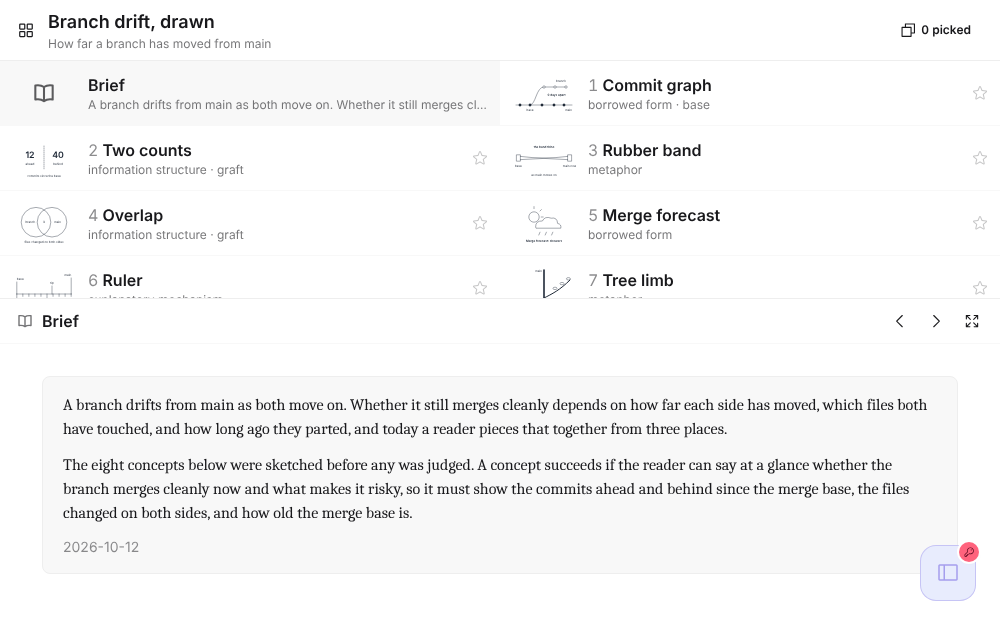
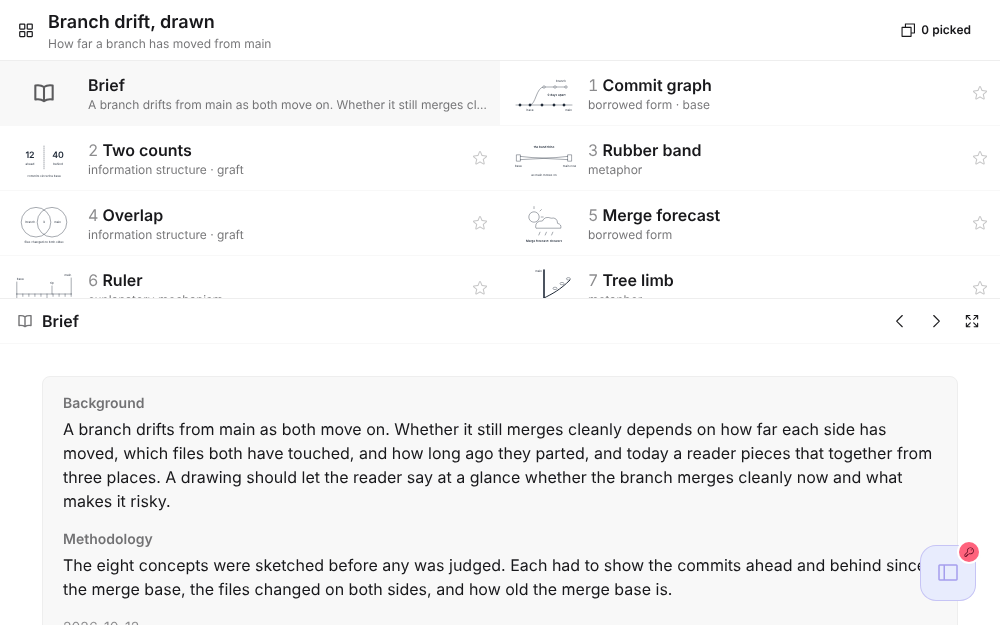
Idea board: the brief is a Background and a Methodology paragraph
The brief is two labelled paragraphs, brief.background and
brief.methodology, on the tinted panel; the serif face is gone. A brief of
result and musts[] stays one unlabelled paragraph. The demo board's brief
moves to the two fields.

Claude-Session: https://claude.ai/code/session_01Ug8CX7fEZku96bGVnsboE4

Changed region(s): [[0.062, 0.6384, 0.93, 0.9728]]

diff --git a/pages/idea-board.html b/pages/idea-board.html
@@ -134,14 +134,17 @@ document.addEventListener('alpine:init', () => {
     // (docs/prototypes/md-edit-ideas.json, a write-once record) is read with
     // the two joined as its commentary.
     commentary(d) { return d.commentary != null ? d.commentary : [d.encounter, d.helps].filter(Boolean).join('\n\n'); },
-    // A board whose brief is result and musts[] (docs/prototypes/md-edit-ideas.json
-    // again) has the two read as prose: the result, then what a concept must show.
-    get briefText() {
-      const b = this.B.brief;
-      return typeof b === 'string' ? b : [b.result, (b.musts || []).length ? 'A concept must show ' + b.musts.map(m => /^.[a-z]/.test(m) ? m.charAt(0).toLowerCase() + m.slice(1) : m).join('; ') + '.' : ''].filter(Boolean).join('\n\n');
+    // [label, text] pairs: the brief's Background and Methodology. A brief of
+    // result and musts[] (docs/prototypes/md-edit-ideas.json again) is one
+    // unlabelled paragraph: the result, then what a concept must show.
+    get briefParts() {
+      const b = this.B.brief || {};
+      if (b.background || b.methodology) return [['Background', b.background], ['Methodology', b.methodology]].filter(([, t]) => t);
+      const musts = (b.musts || []).map(m => /^.[a-z]/.test(m) ? m.charAt(0).toLowerCase() + m.slice(1) : m);
+      return [[null, [b.result, musts.length ? 'A concept must show ' + musts.join('; ') + '.' : ''].filter(Boolean).join(' ')]];
     },
     // The brief's list row: its first paragraph, unformatted.
-    get briefLead() { return this.briefText.split(/\n\s*\n/)[0].replace(/\*\*|`/g, ''); },
+    get briefLead() { return (this.briefParts[0]?.[1] || '').replace(/\*\*|`/g, ''); },
     mark(kind, size = 16) { return window.CallMarks ? window.CallMarks.svg(kind, { size }) : ''; },
 
     // The deck's subtitle names the card in view, as the strip's header does.
@@ -214,13 +217,13 @@ document.addEventListener('alpine:init', () => {
       this.note(el, d.n);
     },
 
-    // The brief is prose, formatted as a commentary is, with its date beneath.
-    // It sits on a tinted, bordered panel in a serif face, so it reads as the
-    // board's own document and not as a ninth idea; the idea cards stay on the
-    // plain ground in the page's sans.
+    // The brief is its Background and its Methodology, a paragraph each under
+    // its label, on a tinted panel so it is not taken for a ninth idea, with the
+    // board's date beneath.
     renderBrief(el) {
-      el.innerHTML = `<div class="rounded-box border border-base-300 bg-base-200 px-5 py-4 grid gap-3 text-pretty font-serif">${prose(this.briefText)}
-        <p class="text-sm text-base-content/50 font-sans">${esc(this.B.made)}</p>
+      el.innerHTML = `<div class="rounded-box border border-base-300 bg-base-200 px-5 py-4 grid gap-4 text-pretty">
+        ${this.briefParts.map(([label, text]) => `<section class="grid gap-1">${label ? `<h3 class="text-sm font-semibold text-base-content/60">${label}</h3>` : ''}<div class="grid gap-3">${prose(text)}</div></section>`).join('')}
+        <p class="text-sm text-base-content/50">${esc(this.B.made)}</p>
       </div>`;
     },
 

diff --git a/docs/idea-board.md b/docs/idea-board.md
@@ -22,7 +22,7 @@ the board that was handed over.
 | Field | Holds |
 | --- | --- |
 | `title`, `subject`, `made` | the board's name, what it is about, and the date |
-| `brief` | prose from phase 1: the background, how the concepts were made, the intended result and what a concept must show, with the formatting [Cards](#cards) describes |
+| `brief.background`, `brief.methodology` | a paragraph each, from phase 1: the situation that gives rise to the board and what a reader should be able to do after it, then how the concepts were made and what each must show, with the formatting [Cards](#cards) describes |
 | `ideas[]` | eight concepts: `n`, `title`, `kind` (its principal difference), `commentary`, `sketch` |
 | `selection.pick[]` | the base concept's `n` |
 | `selection.grafts[]` | `[n, what is taken from it]` pairs |
@@ -46,7 +46,7 @@ the board that was handed over.
 
 A board has four parts: the brief gives its background and method, each idea has a proposal (its `title`, `kind` and `sketch`) and a commentary (its `commentary`), and the selection is its conclusion. [`lib/kits/call-marks.js`](../lib/kits/call-marks.js) draws an icon for each part, and the page marks the brief and the selection with the kit's book and stamp.
 
-Each idea is one card: its commentary, then its sketch, then the reader's star and note; from 1280 pixels wide the sketch sits beside the other two. The commentary is a short, qualified discussion of what the idea brings, in paragraphs separated by a blank line, with `**bold**` and `` `code` `` the only formatting drawn. The header above the strip of cards names the card in view by its number and `title`. The brief card shows the brief as prose with the board's `made` date beneath it. A board whose brief has `result` and `musts[]` and whose ideas have `encounter` and `helps`, as [`docs/prototypes/md-edit-ideas.json`](prototypes/md-edit-ideas.json) does (a record, never edited once on main), is read with each pair turned into prose.
+Each idea is one card: its commentary, then its sketch, then the reader's star and note; from 1280 pixels wide the sketch sits beside the other two. The commentary is a short, qualified discussion of what the idea brings, in paragraphs separated by a blank line, with `**bold**` and `` `code` `` the only formatting drawn. The header above the strip of cards names the card in view by its number and `title`. The brief card shows the background and the methodology, each under its label, with the board's `made` date beneath them. A board whose brief has `result` and `musts[]` and whose ideas have `encounter` and `helps`, as [`docs/prototypes/md-edit-ideas.json`](prototypes/md-edit-ideas.json) does (a record, never edited once on main), is read with each pair turned into prose.
 
 ## Returning picks
 
